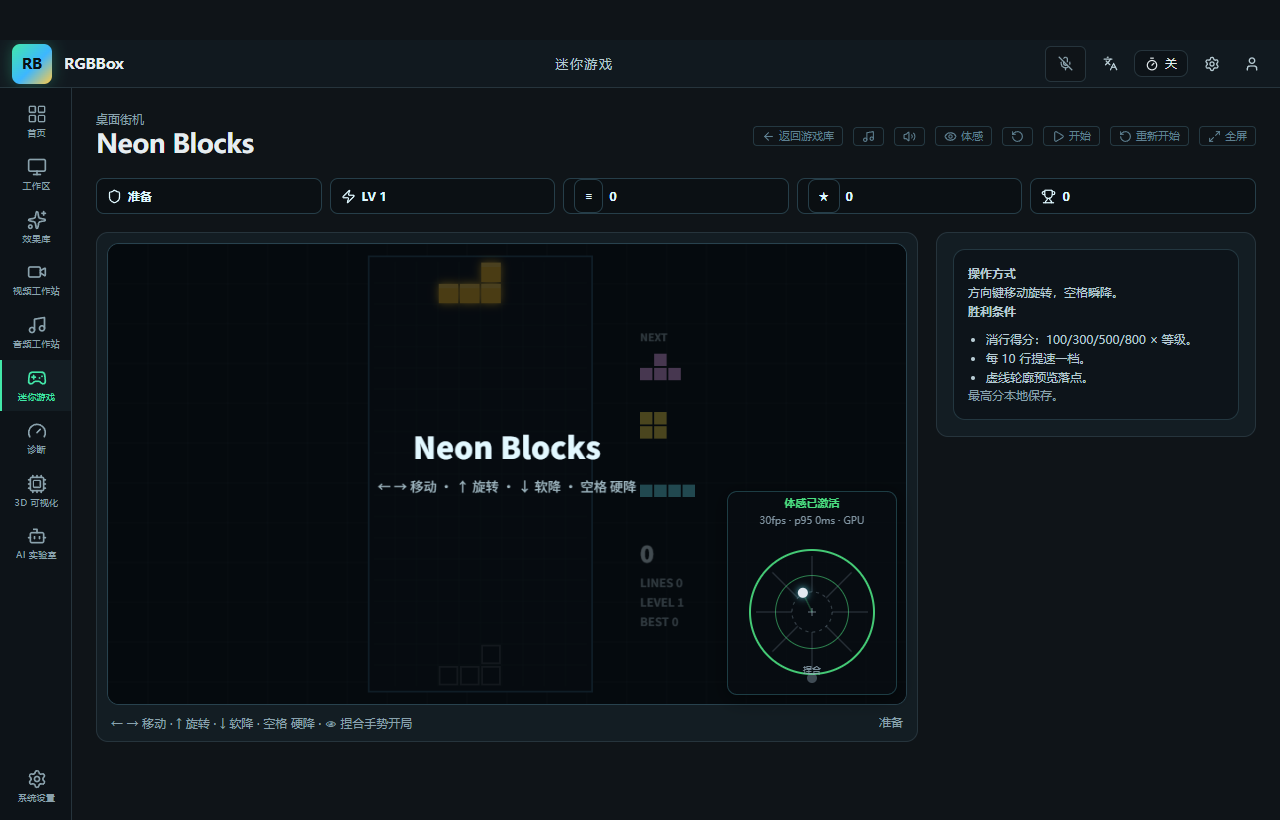
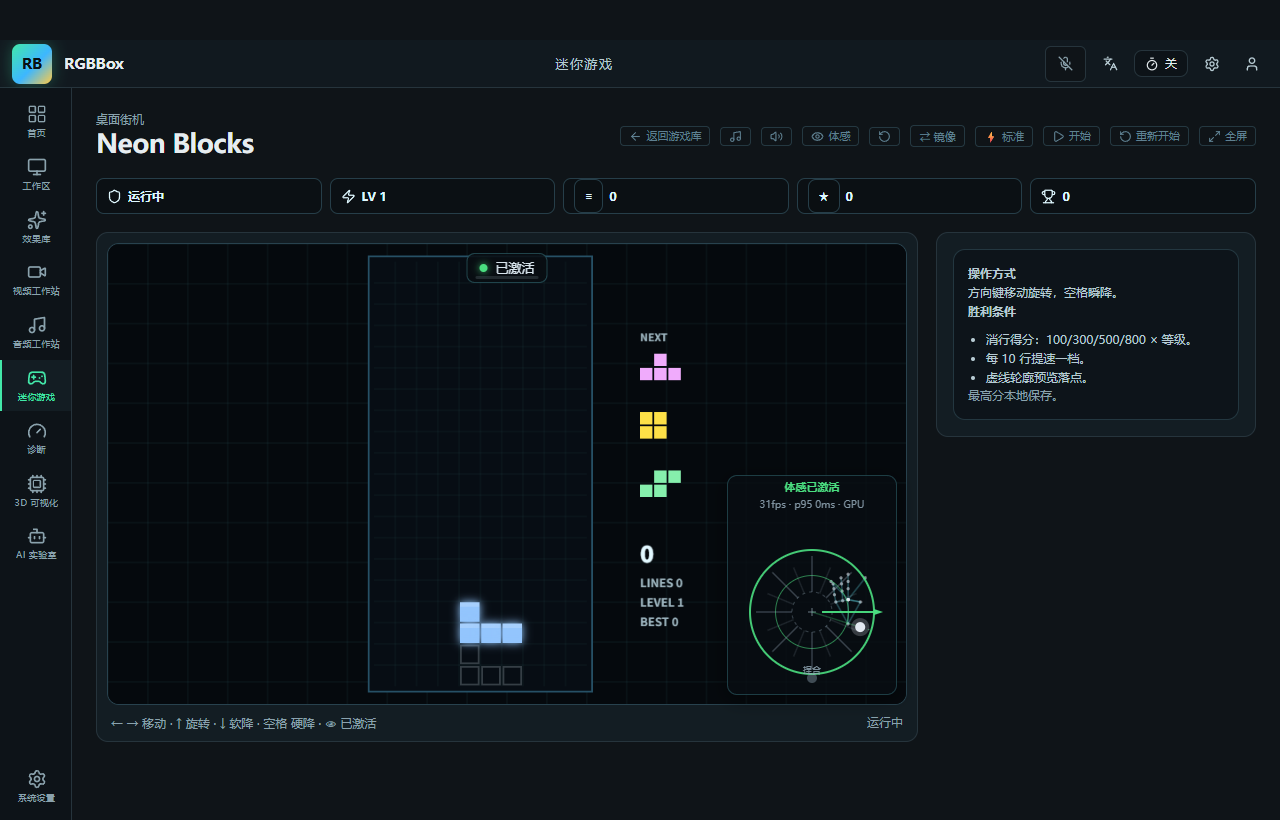
[PRD-0002] feat: R142-E1 60fps full-frame capture + predicted rendering
Second phase of the recovery plan (auto-run E0-E4).

- L1 latency attack: init cfg now carries camera 640x480@60 + maxFps 60 —
  the hidden-host pipeline processes EVERY camera frame in its own
  renderer process (main thread still spends nothing), cutting the
  end-to-end chain by a frame or more vs the 30Hz-capped era.
- L2 predicted rendering: pipeline tracks an EMA of palm velocity and
  stamps every snapshot with geomPredicted (velocity x 50ms lookahead,
  clamped to frame). Continuous consumers — the pad dot and the Survival
  analog axis — now lead the detection cadence instead of lagging it;
  discrete events keep their confirm gates (the research anti-pattern
  warning is respected: no prediction on discrete signals).
- snapshots carry hostNowMs; E2E gains a cadence probe (host stamp
  advanced 422ms over a 400ms window — snapshots flowing at rate). NOTE:
  absolute channel latency is NOT measurable cross-window (separate
  renderer processes have independent performance.now() origins — a
  25s 'latency' that was really clock skew; lesson recorded).

Evidence: typecheck 0 errors; 104 files / 967 passed / 0 failed (+4
prediction tests: leads-while-moving, converges-when-still,
clears-on-loss, hostNowMs); dist:dir + E2E 22 asserts 0 FAIL.

diff --git a/src/renderer/src/vision/pipeline.js b/src/renderer/src/vision/pipeline.js
@@ -38,6 +38,12 @@ export class VisionPipeline {
     this.frameCount = 0;
     this.lastTs = 0;
     this.running = false;
+    // R142-L2: display-rate prediction — an EMA of palm velocity lets
+    // continuous consumers (analog axis, pad dot, cursor) render ~1-2 frames
+    // AHEAD of the ~30-60Hz detection cadence. Discrete events stay
+    // confirm-gated (research anti-pattern warning respected).
+    this.predVel = { x: 0, y: 0 };
+    this.predLast = null;
     this.paused = false;
     this.mirror = true; // selfie convention; toggleable (R136.2)
     this.synthetic = null;
@@ -145,6 +151,32 @@ export class VisionPipeline {
 
     const { events, snapshot } = this.session.onFrame({ nowMs, hands, face: faceMap });
     this.frameCount++;
+    // R142-L2: attach the predicted palm (velocity × 50ms lookahead)
+    if (snapshot && snapshot.geom) {
+      const g = snapshot.geom;
+      if (this.predLast && nowMs > this.predLast.t) {
+        const dt = (nowMs - this.predLast.t) / 1000;
+        if (dt > 0.001 && dt < 0.2) {
+          const vx = (g.palm.x - this.predLast.x) / dt;
+          const vy = (g.palm.y - this.predLast.y) / dt;
+          this.predVel.x += (vx - this.predVel.x) * 0.35;
+          this.predVel.y += (vy - this.predVel.y) * 0.35;
+        }
+      }
+      this.predLast = { x: g.palm.x, y: g.palm.y, t: nowMs };
+      const ahead = 0.05;
+      const px = g.palm.x + this.predVel.x * ahead;
+      const py = g.palm.y + this.predVel.y * ahead;
+      snapshot.geomPredicted = {
+        palm: { x: Math.min(1, Math.max(0, px)), y: Math.min(1, Math.max(0, py)) },
+        pinch: g.pinch, scale: g.scale,
+      };
+    } else if (snapshot) {
+      snapshot.geomPredicted = null;
+      this.predLast = null;
+      this.predVel = { x: 0, y: 0 };
+    }
+    if (snapshot) snapshot.hostNowMs = nowMs;
     // profile persistence is proxied to the main thread (workers lack localStorage)
     if (this.deps.onProfileSave && events.some((e) => e.name === 'calibrated')) {
       this.deps.onProfileSave(this.session.profile);

diff --git a/src/renderer/src/components/vision/VisionPad.tsx b/src/renderer/src/components/vision/VisionPad.tsx
@@ -226,7 +226,10 @@ function draw(ctx: CanvasRenderingContext2D, vision: VisionInputHandle, t: TFn, 
   // live palm dot (same transform as DirectionRing: gain + y-flip), drawn at
   // DISPLAY rate: the target from the latest processed frame is chased with
   // exponential smoothing so ~30Hz inference still reads as fluid motion
-  const geom = frame?.geom
+  // R142-L2: the dot chases the PREDICTED palm (50ms lookahead) — at 60Hz
+  // capture the extrapolation crosses into the next frame's territory and
+  // the pad reads as immediate
+  const geom = frame?.geomPredicted ?? frame?.geom
   if (geom) {
     const dx = (geom.palm.x - center.x) * GAIN_X
     const dy = -(geom.palm.y - center.y) * GAIN_Y

diff --git a/tests/renderer/hooks/useVisionInput.test.tsx b/tests/renderer/hooks/useVisionInput.test.tsx
@@ -65,6 +65,9 @@ describe('renderer/hooks/useVisionInput (R136 host client)', () => {
     expect((init.cfg.sessionCfg as { requireFace: boolean }).requireFace).toBe(false)
     expect((init.cfg.sessionCfg as { faceEveryN: number }).faceEveryN).toBe(3)
     expect(init.cfg.mirror).toBe(true)
+    expect(init.cfg.maxFps).toBe(60) // R142-L1: 60fps full-frame
+    expect((init.cfg.camera as { width: number }).width).toBe(640)
+    expect((init.cfg.camera as { height: number }).height).toBe(480)
     await act(() => result.current.disable())
     expect(host.received.some((m) => m.type === 'stop')).toBe(true)
     expect(rgbbox.visionHostClose).toHaveBeenCalled()

diff --git a/src/renderer/src/hooks/useVisionInput.ts b/src/renderer/src/hooks/useVisionInput.ts
@@ -181,6 +181,11 @@ export function useVisionInput(): VisionInputHandle {
             handModel: new URL('models/hand_landmarker.task', base).href,
             faceModel: new URL('models/face_landmarker.task', base).href,
             numHands: 2,
+            // R142-L1: 60fps full-frame capture — MJPG at 640×480 is standard
+            // webcam fare; the host pipeline (its own renderer process)
+            // processes EVERY frame, cutting the end-to-end chain by a frame+.
+            camera: { width: 640, height: 480, frameRate: 60 },
+            maxFps: 60,
             mirror,
             sensitivity,
             storedProfile,

diff --git a/src/renderer/src/vision/vision_input.d.ts b/src/renderer/src/vision/vision_input.d.ts
@@ -50,6 +50,10 @@ export interface VisionFrame {
   score: number
   stats: VisionStats
   faceEveryN: number
+  /** R142-L2: palm predicted one-two frames ahead (velocity x 50ms) for continuous consumers */
+  geomPredicted?: { palm: { x: number; y: number }; pinch: number; scale: number } | null
+  /** host-side performance.now() when this snapshot was produced */
+  hostNowMs?: number
   /** null when no hand passed the score floor this frame */
   geom?: { palm: { x: number; y: number }; pinch: number; scale: number } | null
   /** 21 landmarks of the tracked (primary) hand, selfie-space — skeleton layer */

diff --git a/src/renderer/src/components/MiniGamesView.tsx b/src/renderer/src/components/MiniGamesView.tsx
@@ -316,7 +316,9 @@ export function MiniGamesView(): JSX.Element {
       }
       // analog displacement → additive axis vector (joystick semantics)
       const frame = vision.frameRef.current
-      const geom = frame?.geom
+      // R142-L2: predicted palm (50ms ahead) — the analog axis leads the
+      // detection instead of lagging it
+      const geom = frame?.geomPredicted ?? frame?.geom
       const ringCenter = frame?.ringCenter
       let targetX = 0
       let targetY = 0

diff --git a/docs/prd/PRD-0002-rgbbox-project-catalog.md b/docs/prd/PRD-0002-rgbbox-project-catalog.md
@@ -2906,5 +2906,6 @@
 - **分阶段（E0-E5，8-11 天）**：E0=R141 A/B（1.5 天，70→75）；E1=L1+L2（2 天，感知 <65ms 实测，→81）；E2=L3 光标（2 天，Fitts 吞吐自测，→85）；E3=L4 和弦（2-3 天，识别率 ≥97% 单测，→90）；E4=L5+R141 C/D（2.5 天，→92-94）；E5=和弦文本储备（+2 天，冲 95+ 最后 2-3 分）。每阶段独立验收独立提交。
 - **诚实分数判定**：全部兑现 → **90-94（中位 92）**；95+ 需 E5 和弦文本被实际采纳 + 评分权重含覆盖/演示/通用性。工程无不可行项（全部为文献已验证模式 + 本仓架构已具备宿主独立进程/21 关键点/导数滤波基础）；风险在工程量与调参，非原理。
 - **Non-Goals**：任何附加硬件（终极约束）；旧三作输入层继续调优；离散事件预测外推；全局常开。
-- **验收点（总分锚）**：E1 后端到端延迟实测（合成源打点）<95ms、感知 <65ms；E2 后光标 ISO 任务可用；E3 后和弦识别率 ≥97% 与零疲劳姿态确认；E4 后按报告 §4 复核 90-94。**状态：🔄 实施中（E0 ✅ 2026-09-20）**
+- **验收点（总分锚）**：E1 后端到端延迟实测（合成源打点）<95ms、感知 <65ms；E2 后光标 ISO 任务可用；E3 后和弦识别率 ≥97% 与零疲劳姿态确认；E4 后按报告 §4 复核 90-94。**状态：🔄 实施中（E0 ✅ / E1 ✅ 2026-09-20）**
+- **E1 实施证据（2026-09-20，R142-L1/L2）**：`yarn typecheck` 0 error；全量 `yarn test` **104 files / 967 passed / 0 失败**（+4 预测单测：移动时 geomPredicted 领先 geom、静止收敛 <0.01、丢手清零复位、hostNowMs 打点；+hook 60fps cfg 断言）；`yarn dist:dir` 后 E2E **22 断言 0 FAIL** 含新增节拍探测：host stamp 400ms 窗口前进 422ms（快照按预期速率持续流动——**跨进程 performance.now() 时原点不同，绝对通道延迟不可跨窗测量**，探针以节拍一致性代替，教训入库）。交付：init cfg 携带 `camera 640×480@60 + maxFps 60`（宿主逐帧处理，独立进程不占主线程）；pipeline 速度 EMA ×50ms 前瞻 → `snapshot.geomPredicted`（掌心点与 Survival 模拟量轴消费，离散事件保持确认门——研究反模式警告遵守）；快照附 hostNowMs。测试考古：预测用例初版断言误写 `geom.x`（实为 `geom.palm.x）——调试打印与断言属性不一致的乌龙，已修。
 - **E0 实施证据（2026-09-20，R141-A/B）**：`yarn typecheck` 0 error；全量 `yarn test` **103 files / 963 passed / 0 失败**（+8：envCoach 纯函数 5 项阈值用例、hook setCapturePrecision 消息、组件 tick 音效与环境建议行）；`yarn dist:dir` 后 E2E 20 断言 0 FAIL 零回归。交付：sfx 新增 tick/confirm 合成音（事件即反馈 <50ms 由构造保证——同一事件派发内同步播放）；轮盘双捏合/张掌开局/捏合开局四处确认音；校准期横幅「肘部支撑在桌面」姿态提示；环境教练横幅行（acquire p95>45ms→光线、协商 fps<25→占用、active 丢手→距离；证据阈值 ≥45 样本防误报，1Hz 重估）；采集精度管道（宿主 cfg.camera + {type:capture} 运行时切换流，hook setCapturePrecision 960×540↔640×360——E2/E4 光标场景消费；推理上限改模式化 pipeline.maxFps）。测试基建教训入库：vi.mock 别名调用不被提升（viSfx.mock 静默失效——组件绑定真实模块），必须用标准 vi.mock。
